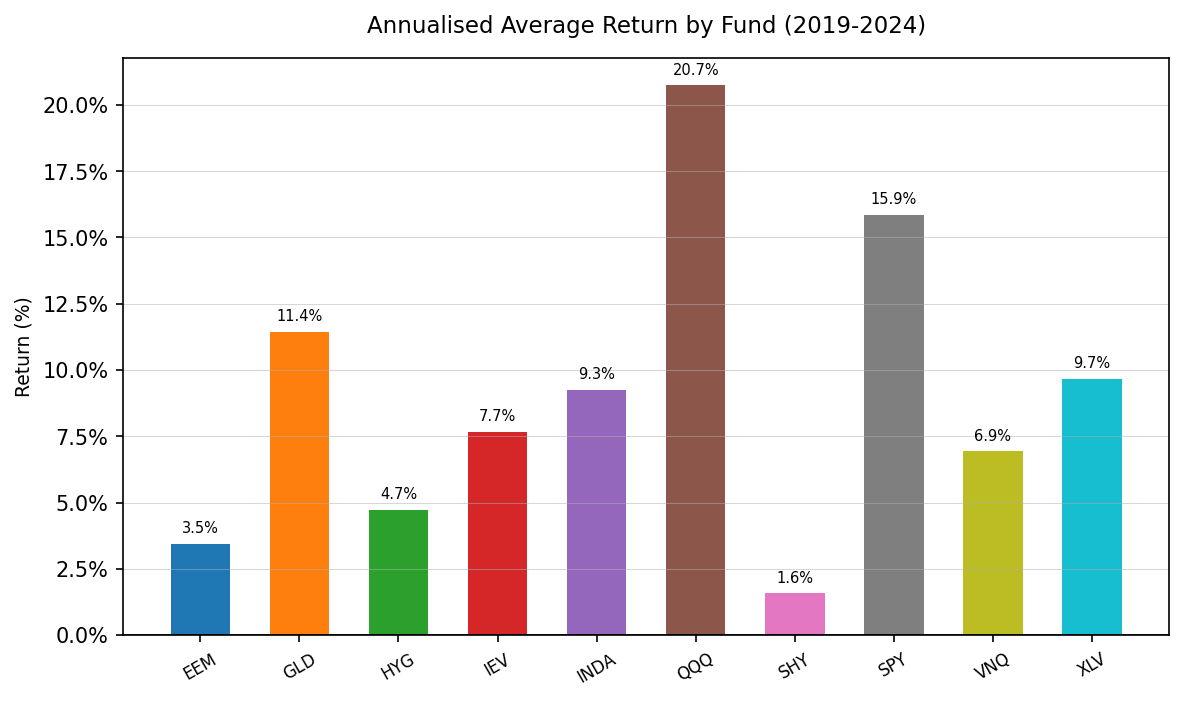
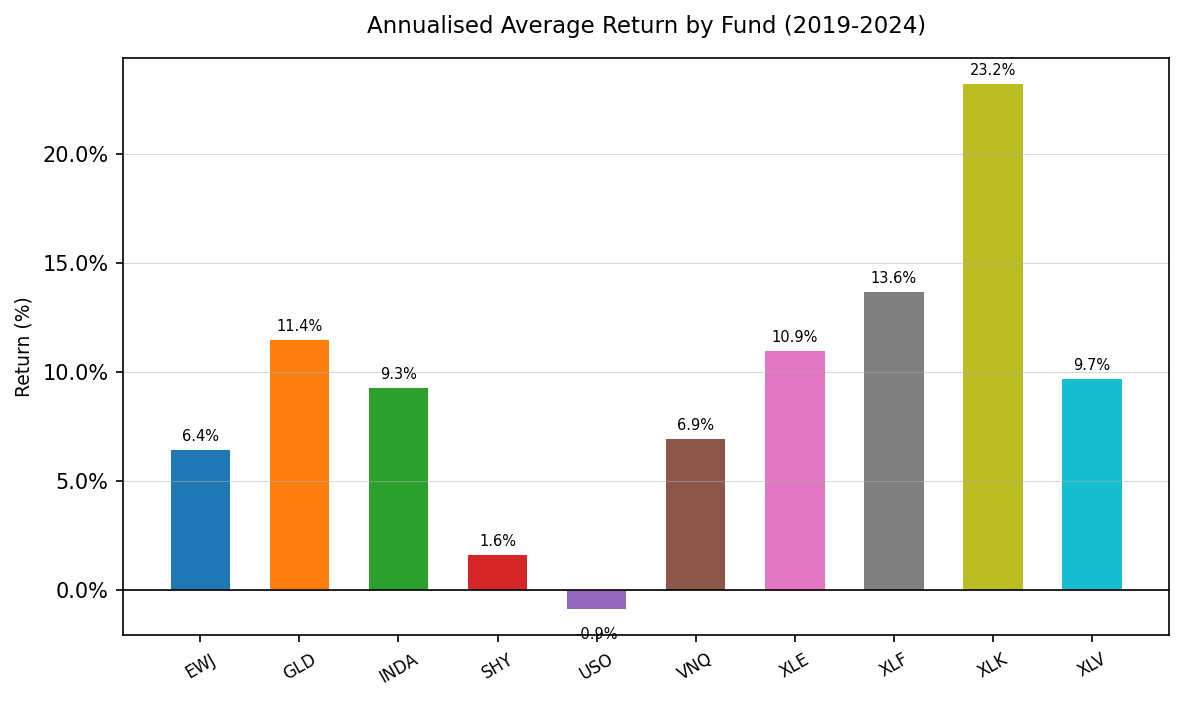
cleanup tickers

diff --git a/analysis/fetch_data.py b/analysis/fetch_data.py
@@ -17,7 +17,7 @@ import os
 import yfinance as yf
 import pandas as pd
 
-TICKERS    = ["SPY", "QQQ", "EEM", "IEV", "INDA", "VNQ", "GLD", "SHY", "HYG", "XLV"]
+TICKERS    = ['EWJ', 'GLD', 'INDA', 'SHY', 'USO', 'VNQ', 'XLE', 'XLF', 'XLK', 'XLV']
 START_DATE = "2019-01-01"
 END_DATE   = "2024-12-31"
 DATA_DIR   = os.path.join(os.path.dirname(os.path.abspath(__file__)), "..", "data")
